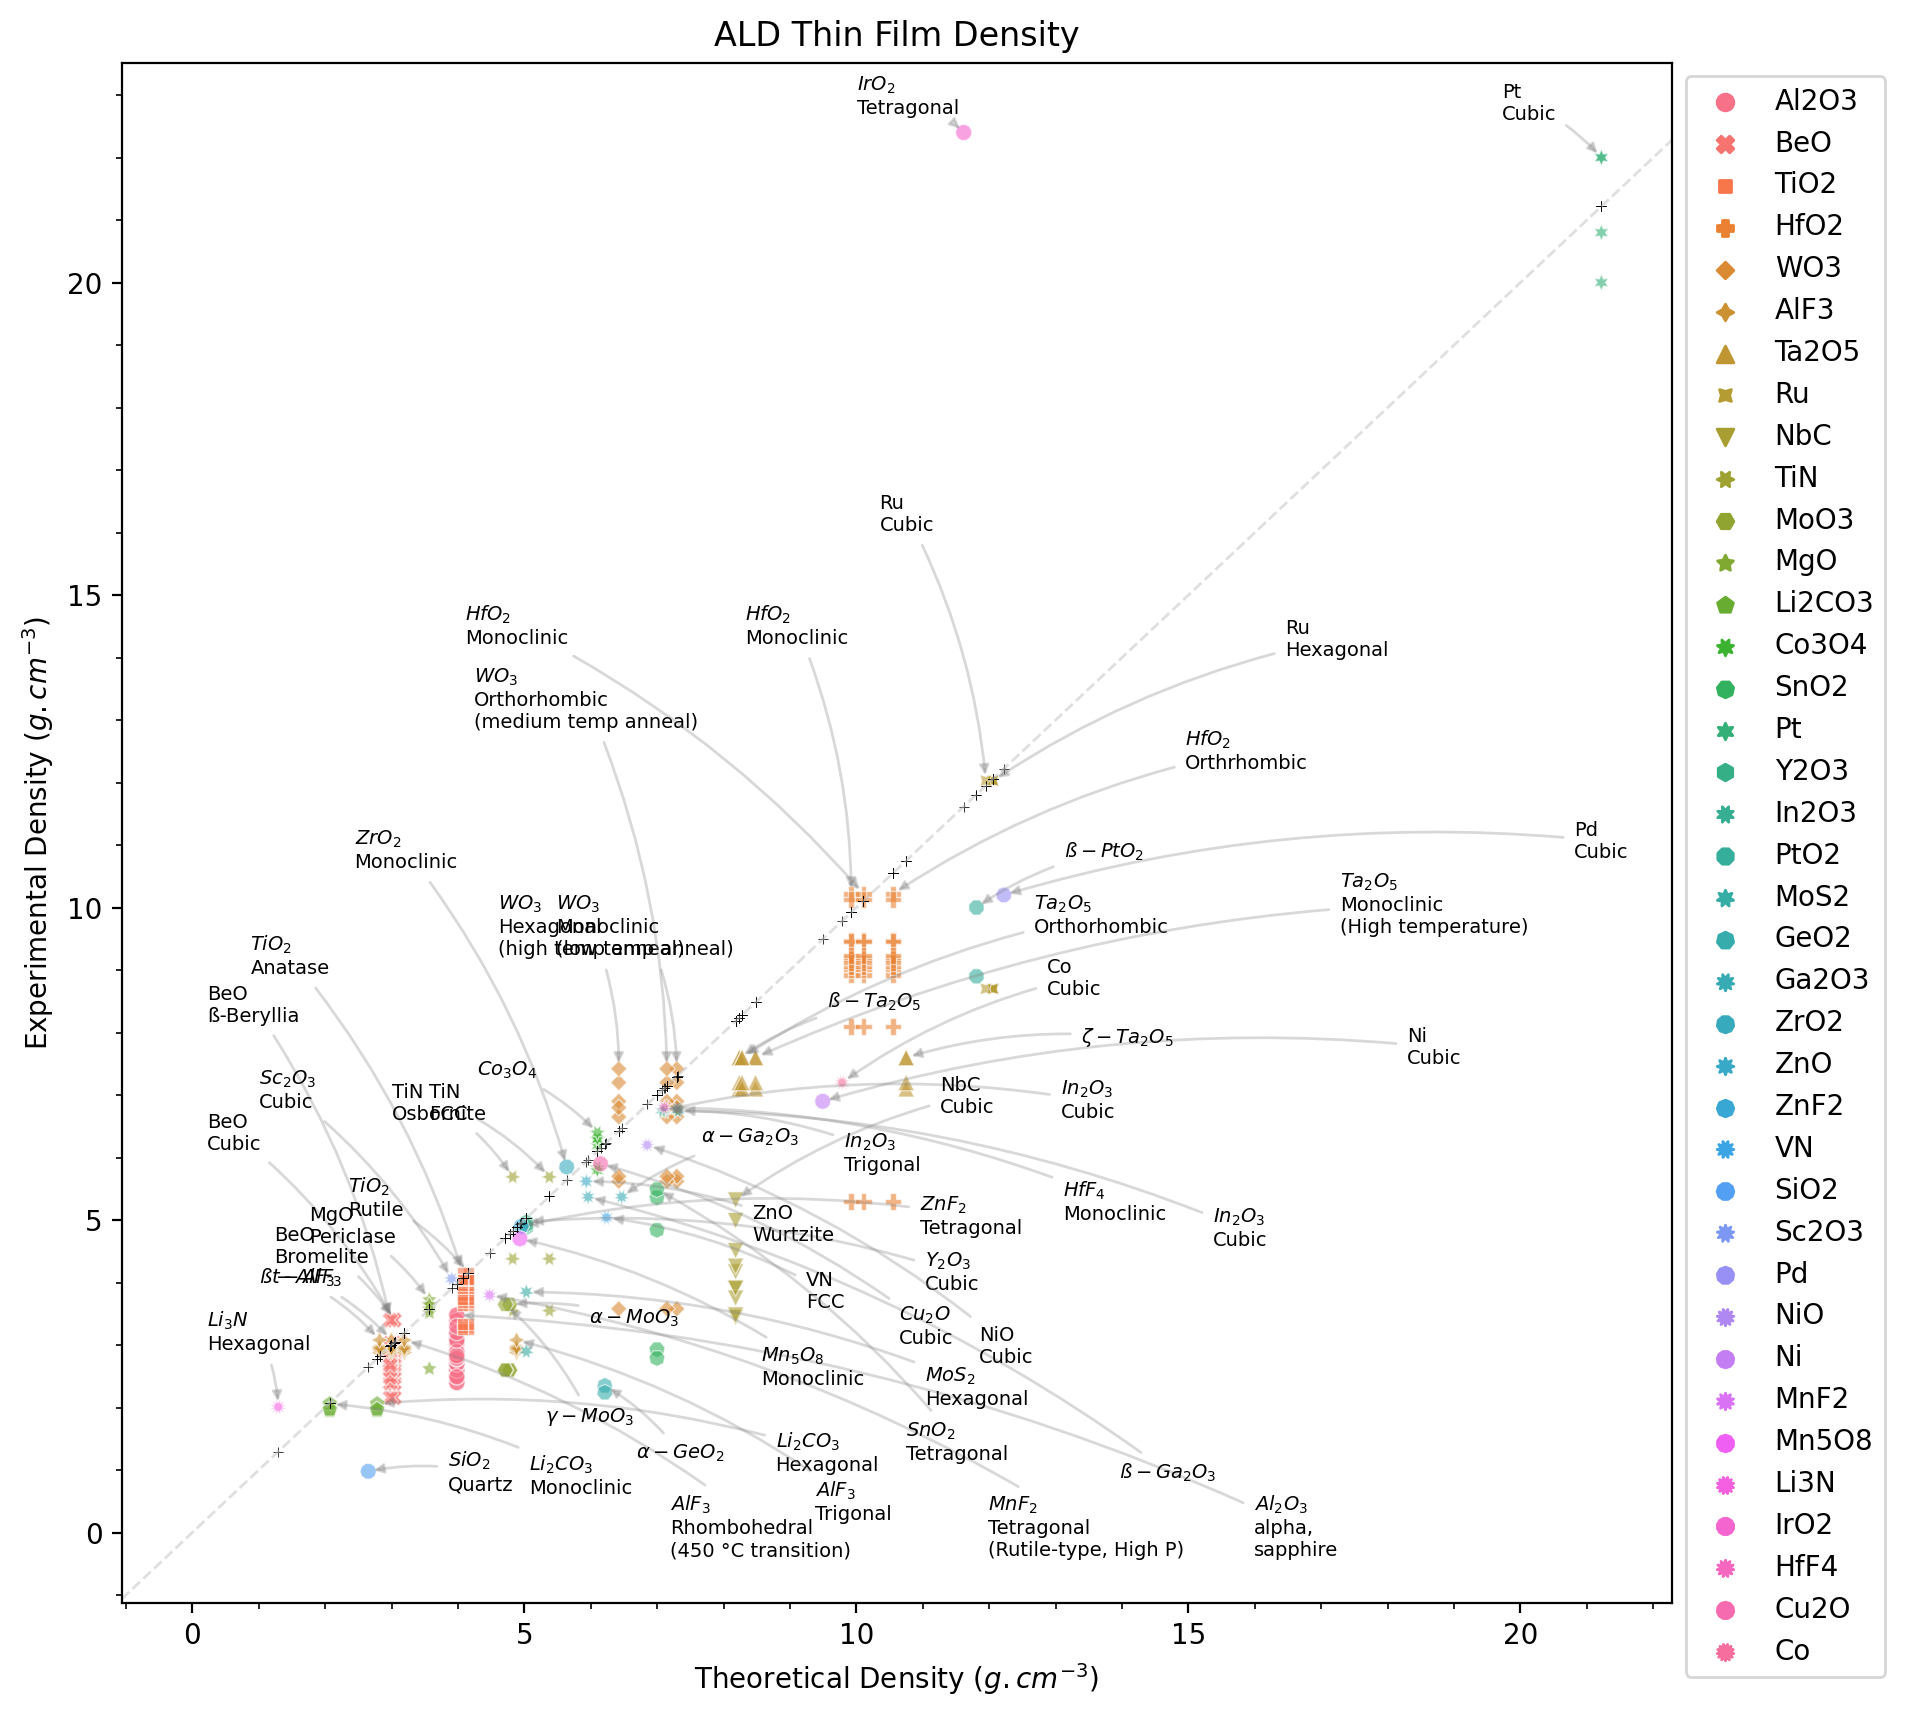
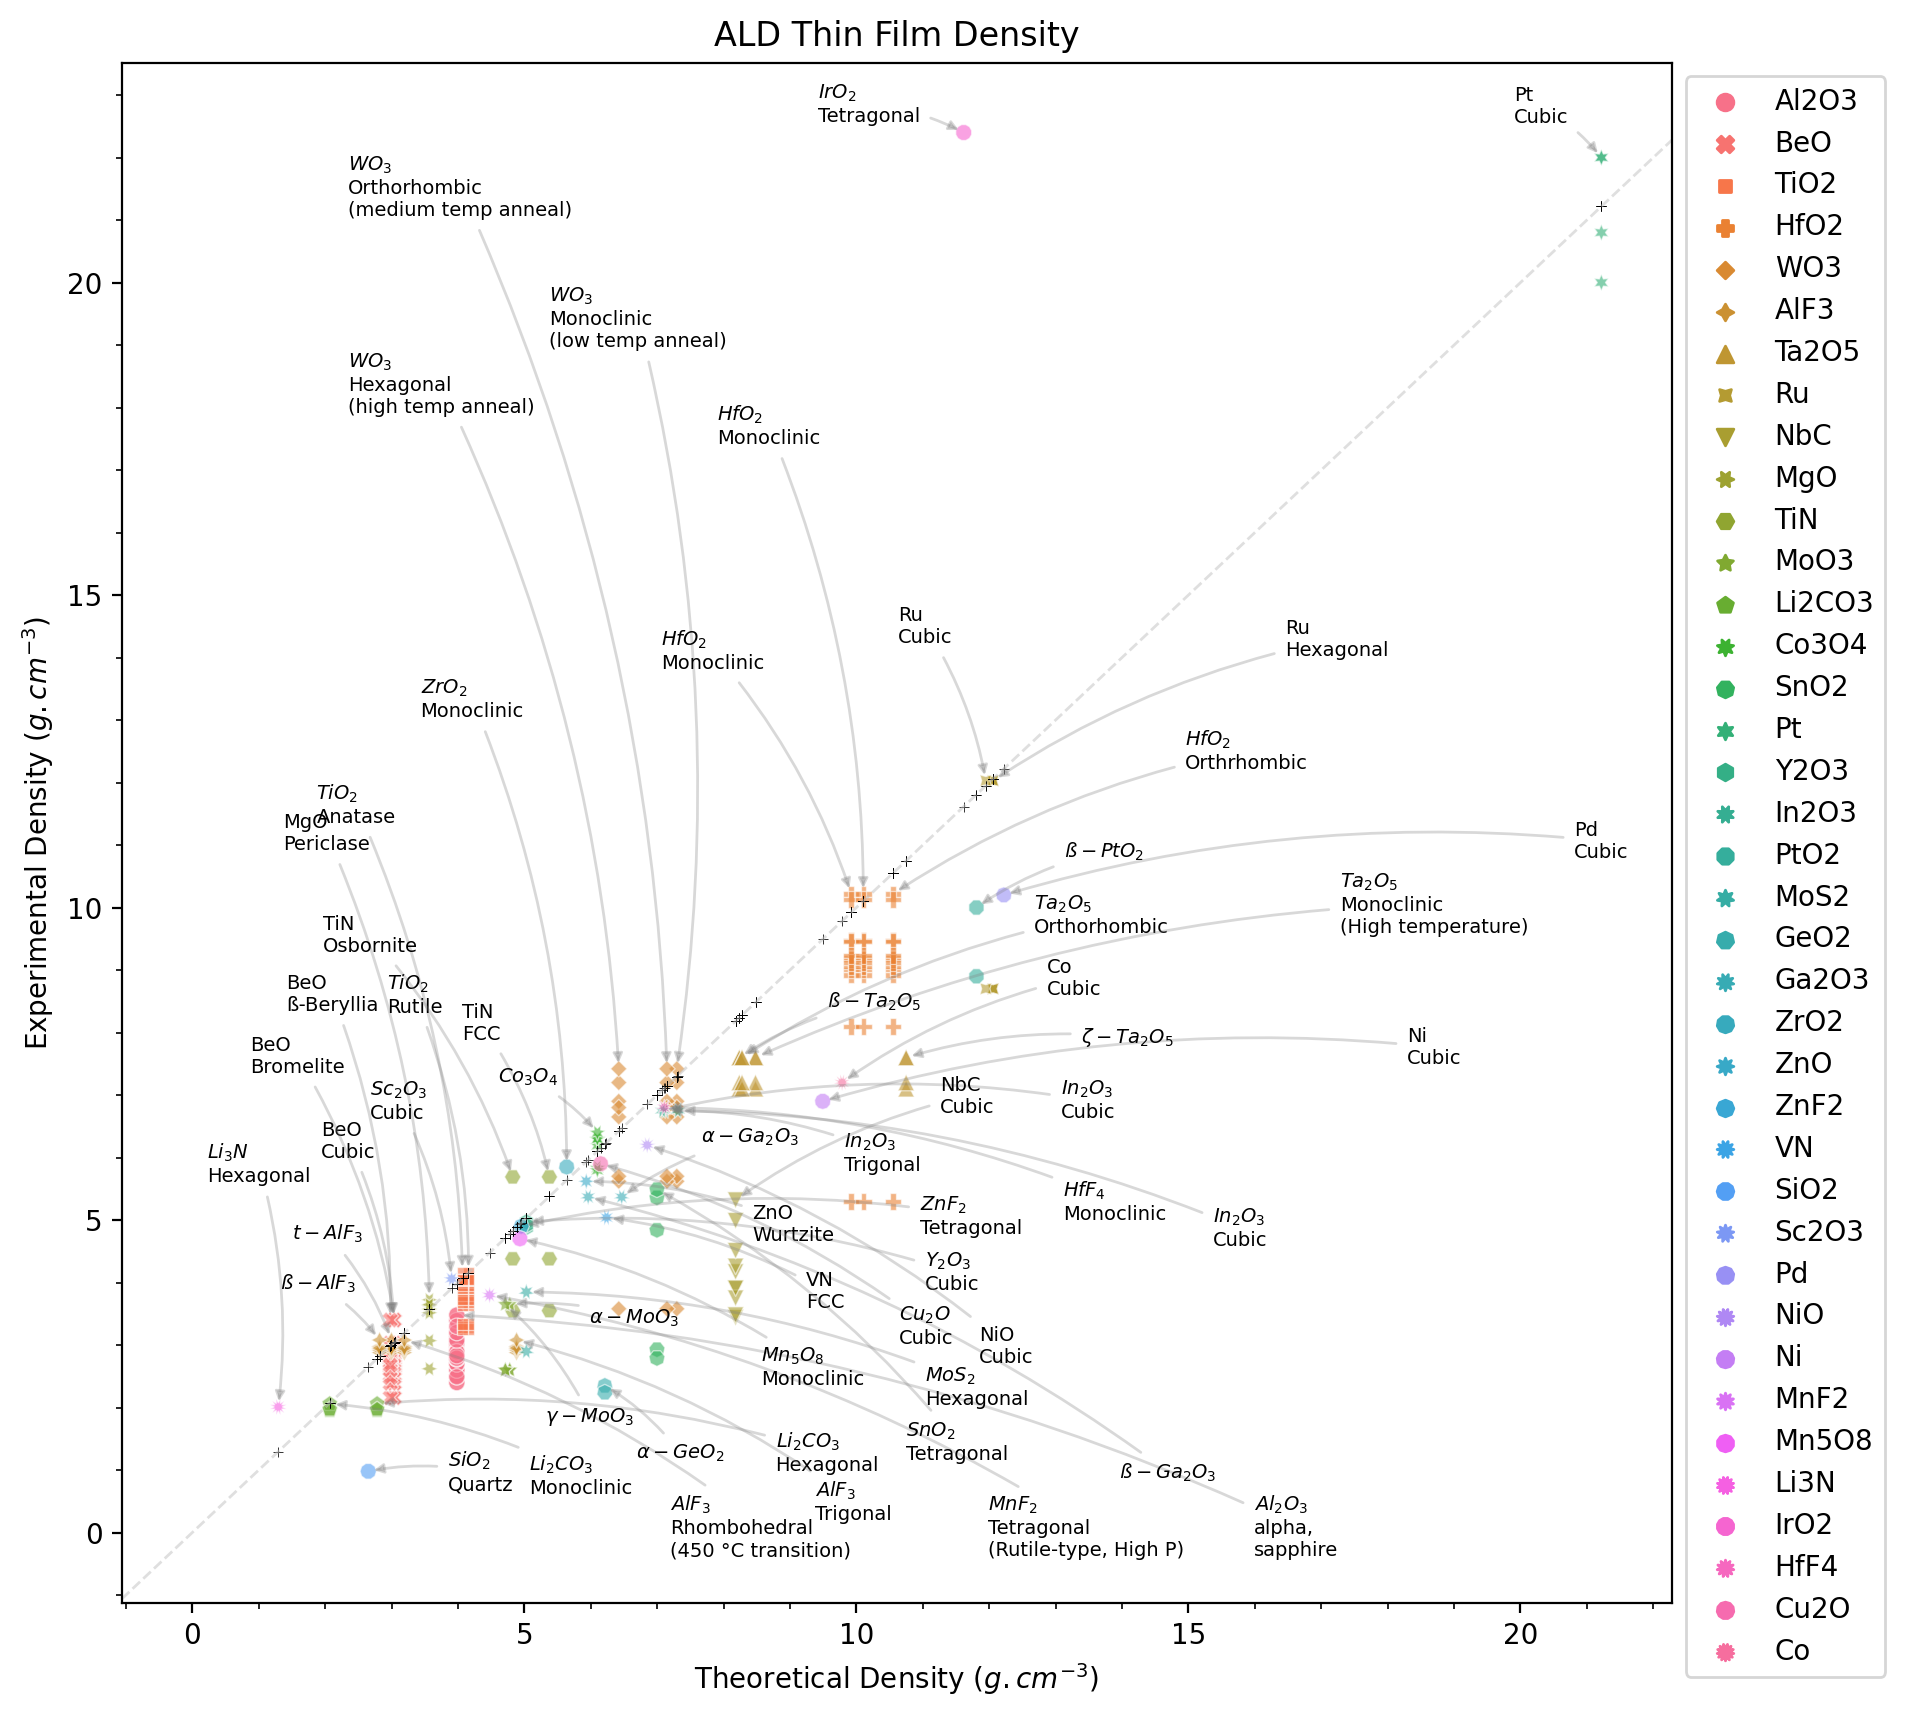
untangled labels

diff --git a/scripts/ald-density-ET.py b/scripts/ald-density-ET.py
@@ -321,6 +321,7 @@ def plot_data1(df, x, y, z, point_labels,  **kwargs):
 
         # CREATE LABEL TEXT
         pnt_lbl = ""
+        len_twolines = 0 
         if (type(lbls[1]) is float and np.isnan(lbls[1])):
             # if nan in points_labels set label to material
             pnt_lbl = lbls[0]
@@ -330,13 +331,15 @@ def plot_data1(df, x, y, z, point_labels,  **kwargs):
 
         else:
             lbls = [lbls[0], *lbls[1].split(" ", 1)]
-
-            
+            len_twolines = len(lbls[1]) 
             pnt_lbl = "\n".join(lbls)
 
         nlines = pnt_lbl.count("\n")+1
         oneline = nlines == 1
+        twolines = nlines == 2
         manylines = nlines >= 3
+
+        lg_twolines = len_twolines > 6
 
         # CREATE SECTIONS FOR LABEL PLACEMENT
         mx = 0.055 # 5% margins
@@ -538,12 +541,6 @@ def plot_data1(df, x, y, z, point_labels,  **kwargs):
                     ox *= 2.0
 
 
-
-            y_txt += oy
-            x_txt += ox
-
-
-
         else: # above line
             ox=lvls["md"] * -1
             oy=lvls["md"]
@@ -564,11 +561,6 @@ def plot_data1(df, x, y, z, point_labels,  **kwargs):
                     if line % 4 == 1:
                         ox *= 1.1
                         oy *= 1.75
-
-                if manylines:
-                    ox *= 1.0
-                    oy *= 2.0
-
 
 
             if point_in_margin_yh:
@@ -604,9 +596,88 @@ def plot_data1(df, x, y, z, point_labels,  **kwargs):
                 oy *= 0.65
                 ox *= 0.75
 
-            y_txt += oy
-            x_txt += ox
 
+
+            if manylines:
+                ox=lvls["md"] * -1.2
+                oy=lvls["xlg"] * 2.1
+
+                if line % 3 == 0:
+                    ox *= 2.0
+                    oy *= 1.3
+                elif line % 3 == 1:
+                    ox *= 0.8
+                    oy *= 1.1
+                elif line % 3 == 2:
+                    ox *= 1.7
+                    oy *= 1.0
+
+            elif lg_twolines:
+                ox=lvls["md"] * -1.1
+                oy=lvls["xlg"] * 1.8
+
+
+                if line % 3 == 0:
+                    ox *= 1.3
+                    oy *= 0.4
+                elif line % 3 == 1:
+                    ox *= 1.0
+                    oy *= 0.8
+                elif line % 3 == 2:
+                    ox *= 0.55
+                    oy *= 0.55
+
+                    if line % 2 == 0:
+                        ox *= 1.8
+                        oy *= 0.8
+                    if line % 2 == 1:
+                        ox *= 1.3
+                        oy *= 1.0
+
+
+            elif twolines and not(lg_twolines):
+                ox=lvls["sm"] * -1.1
+                oy=lvls["md"] * 1
+
+
+                if line % 3 == 0:
+                    ox *= 1.2
+                    oy *= 1.1
+                elif line % 3 == 1:
+                    ox *= 1.0
+                    oy *= 1.3
+                elif line % 3 == 2:
+                    ox *= 1.4
+                    oy *= 1.6
+
+                    if line % 2 == 0:
+                        ox *= 0.8
+                        oy *= 1.3
+                    elif line % 2 == 1:
+                        ox *= 0.8
+                        oy *= 0.8
+
+
+
+            elif oneline:
+                ox=lvls["sm"] * -1
+                oy=lvls["sm"]
+
+
+                if line % 3 == 0:
+                    ox *= 1.5
+                    oy *= 1.6
+                elif line % 3 == 1:
+                    ox *= 1.5
+                    oy *= 0.8
+                elif line % 3 == 2:
+                    ox *= 1.4
+                    oy *= 1.0
+
+
+
+        y_txt += oy
+        x_txt += ox
 
 
         # BRING ANNOTATIONS INSIDE THE MARGINS OF THE PLOT
